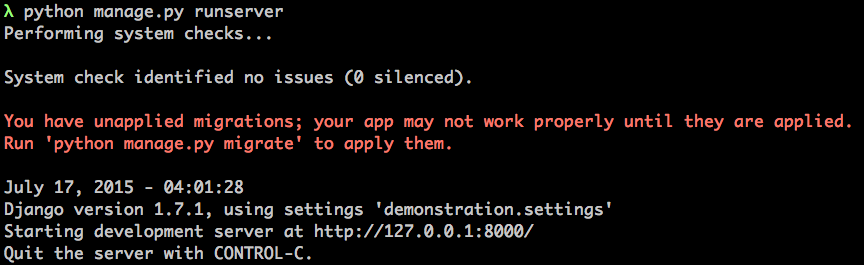
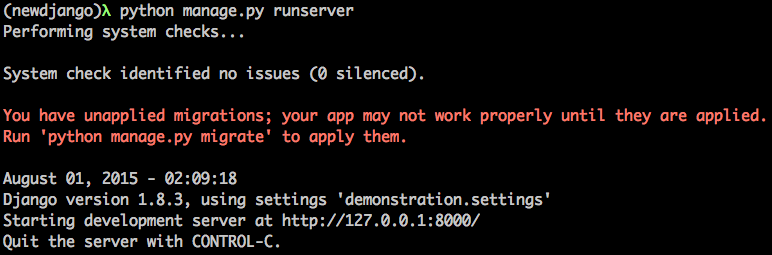
Updating images and fixing bower config path error

diff --git a/_posts/2015-07-16-django.md b/_posts/2015-07-16-django.md
@@ -544,7 +544,7 @@ In the same directory as `manage.py`, create a `.bowerrc` file with the followin
 
 {% highlight bash %}
 {
-    "directory": "demonstration/app/static/"
+    "directory": "app/static/"
 }
 {% endhighlight %}
 
@@ -559,29 +559,7 @@ And now in our command line, we can simply run:
 $ bower install bootstrap
 {% endhighlight %}
 
-This will download Twitter Bootstrap into our project directory, as specified within our `.bowerrc` file. 
-
-Afterwards, we can now generate our `bower.json` by running:
-
-{% highlight bash %}
-$ bower init 
-{% endhighlight %}
-
-This will prompt you with various configuration questions, which you may answer as you please. However, when prompted with **[?] set currently installed components as dependencies?**, be sure to select **Yes**. At the end of this process, the following `bower.json` file will be generated for you (with some values for authors, homepage, etc differing based on your own configuration):
-
-{% highlight bash %}
-
-{
-  "name": "demonstration",
-  "version": "0.0.0",
-  "homepage": "https://github.com/DrkSephy/",
-  "license": "MIT",
-  "dependencies": {
-    "bootstrap": "~3.3.5"
-  }
-}
-
-{% endhighlight %}
+This will download Twitter Bootstrap into our project directory,  as specified within our `.bowerrc` file. 
 
 ### Step 5: Templating
 
